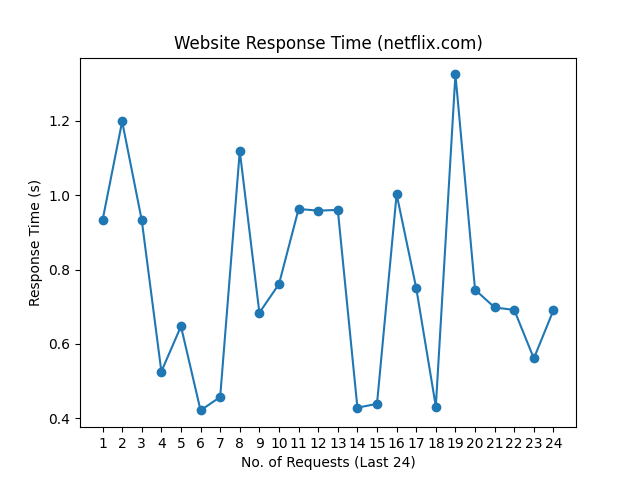
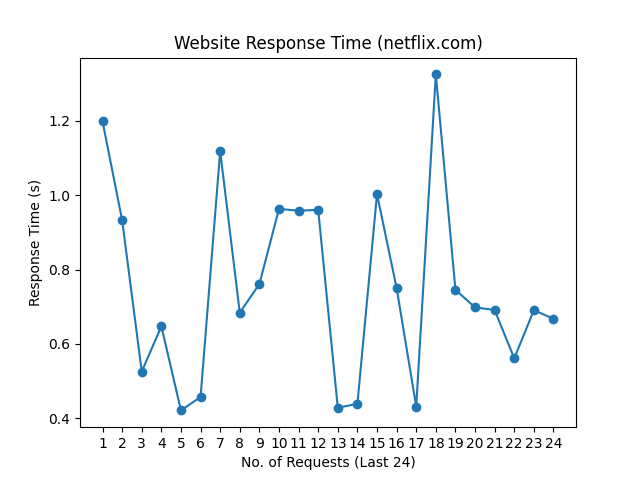
update README.md, history and graph

Changed region(s): [[0.1562, 0.125, 0.875, 0.875]]

diff --git a/README.md b/README.md
@@ -1,10 +1,10 @@
 # Web Monitoring
 
-Last Checked: 02/05/2024 09:02
+Last Checked: 03/05/2024 09:05
 
 | Website | Response Time (s) | Status | Avg Uptime (%) |
 |---------|-------------------|--------|----------------|
 | www.thiswebsiteisdown.net | 0 <br> <img src="graph/thiswebsiteisdown.net.png" alt="Graph" width="200" height="200">  | ❌ Down | 0.00 |
-| www.netflix.com | 0.690861 <br> <img src="graph/netflix.com.png" alt="Graph" width="200" height="200">  | ✅ Up | 100.00 |
-| www.google.com | 0.269008 <br> <img src="graph/google.com.png" alt="Graph" width="200" height="200">  | ✅ Up | 100.00 |
-| www.facebook.com | 0.468171 <br> <img src="graph/facebook.com.png" alt="Graph" width="200" height="200">  | ✅ Up | 100.00 |
+| www.netflix.com | 0.667796 <br> <img src="graph/netflix.com.png" alt="Graph" width="200" height="200">  | ✅ Up | 100.00 |
+| www.google.com | 0.279068 <br> <img src="graph/google.com.png" alt="Graph" width="200" height="200">  | ✅ Up | 100.00 |
+| www.facebook.com | 0.511096 <br> <img src="graph/facebook.com.png" alt="Graph" width="200" height="200">  | ✅ Up | 100.00 |
